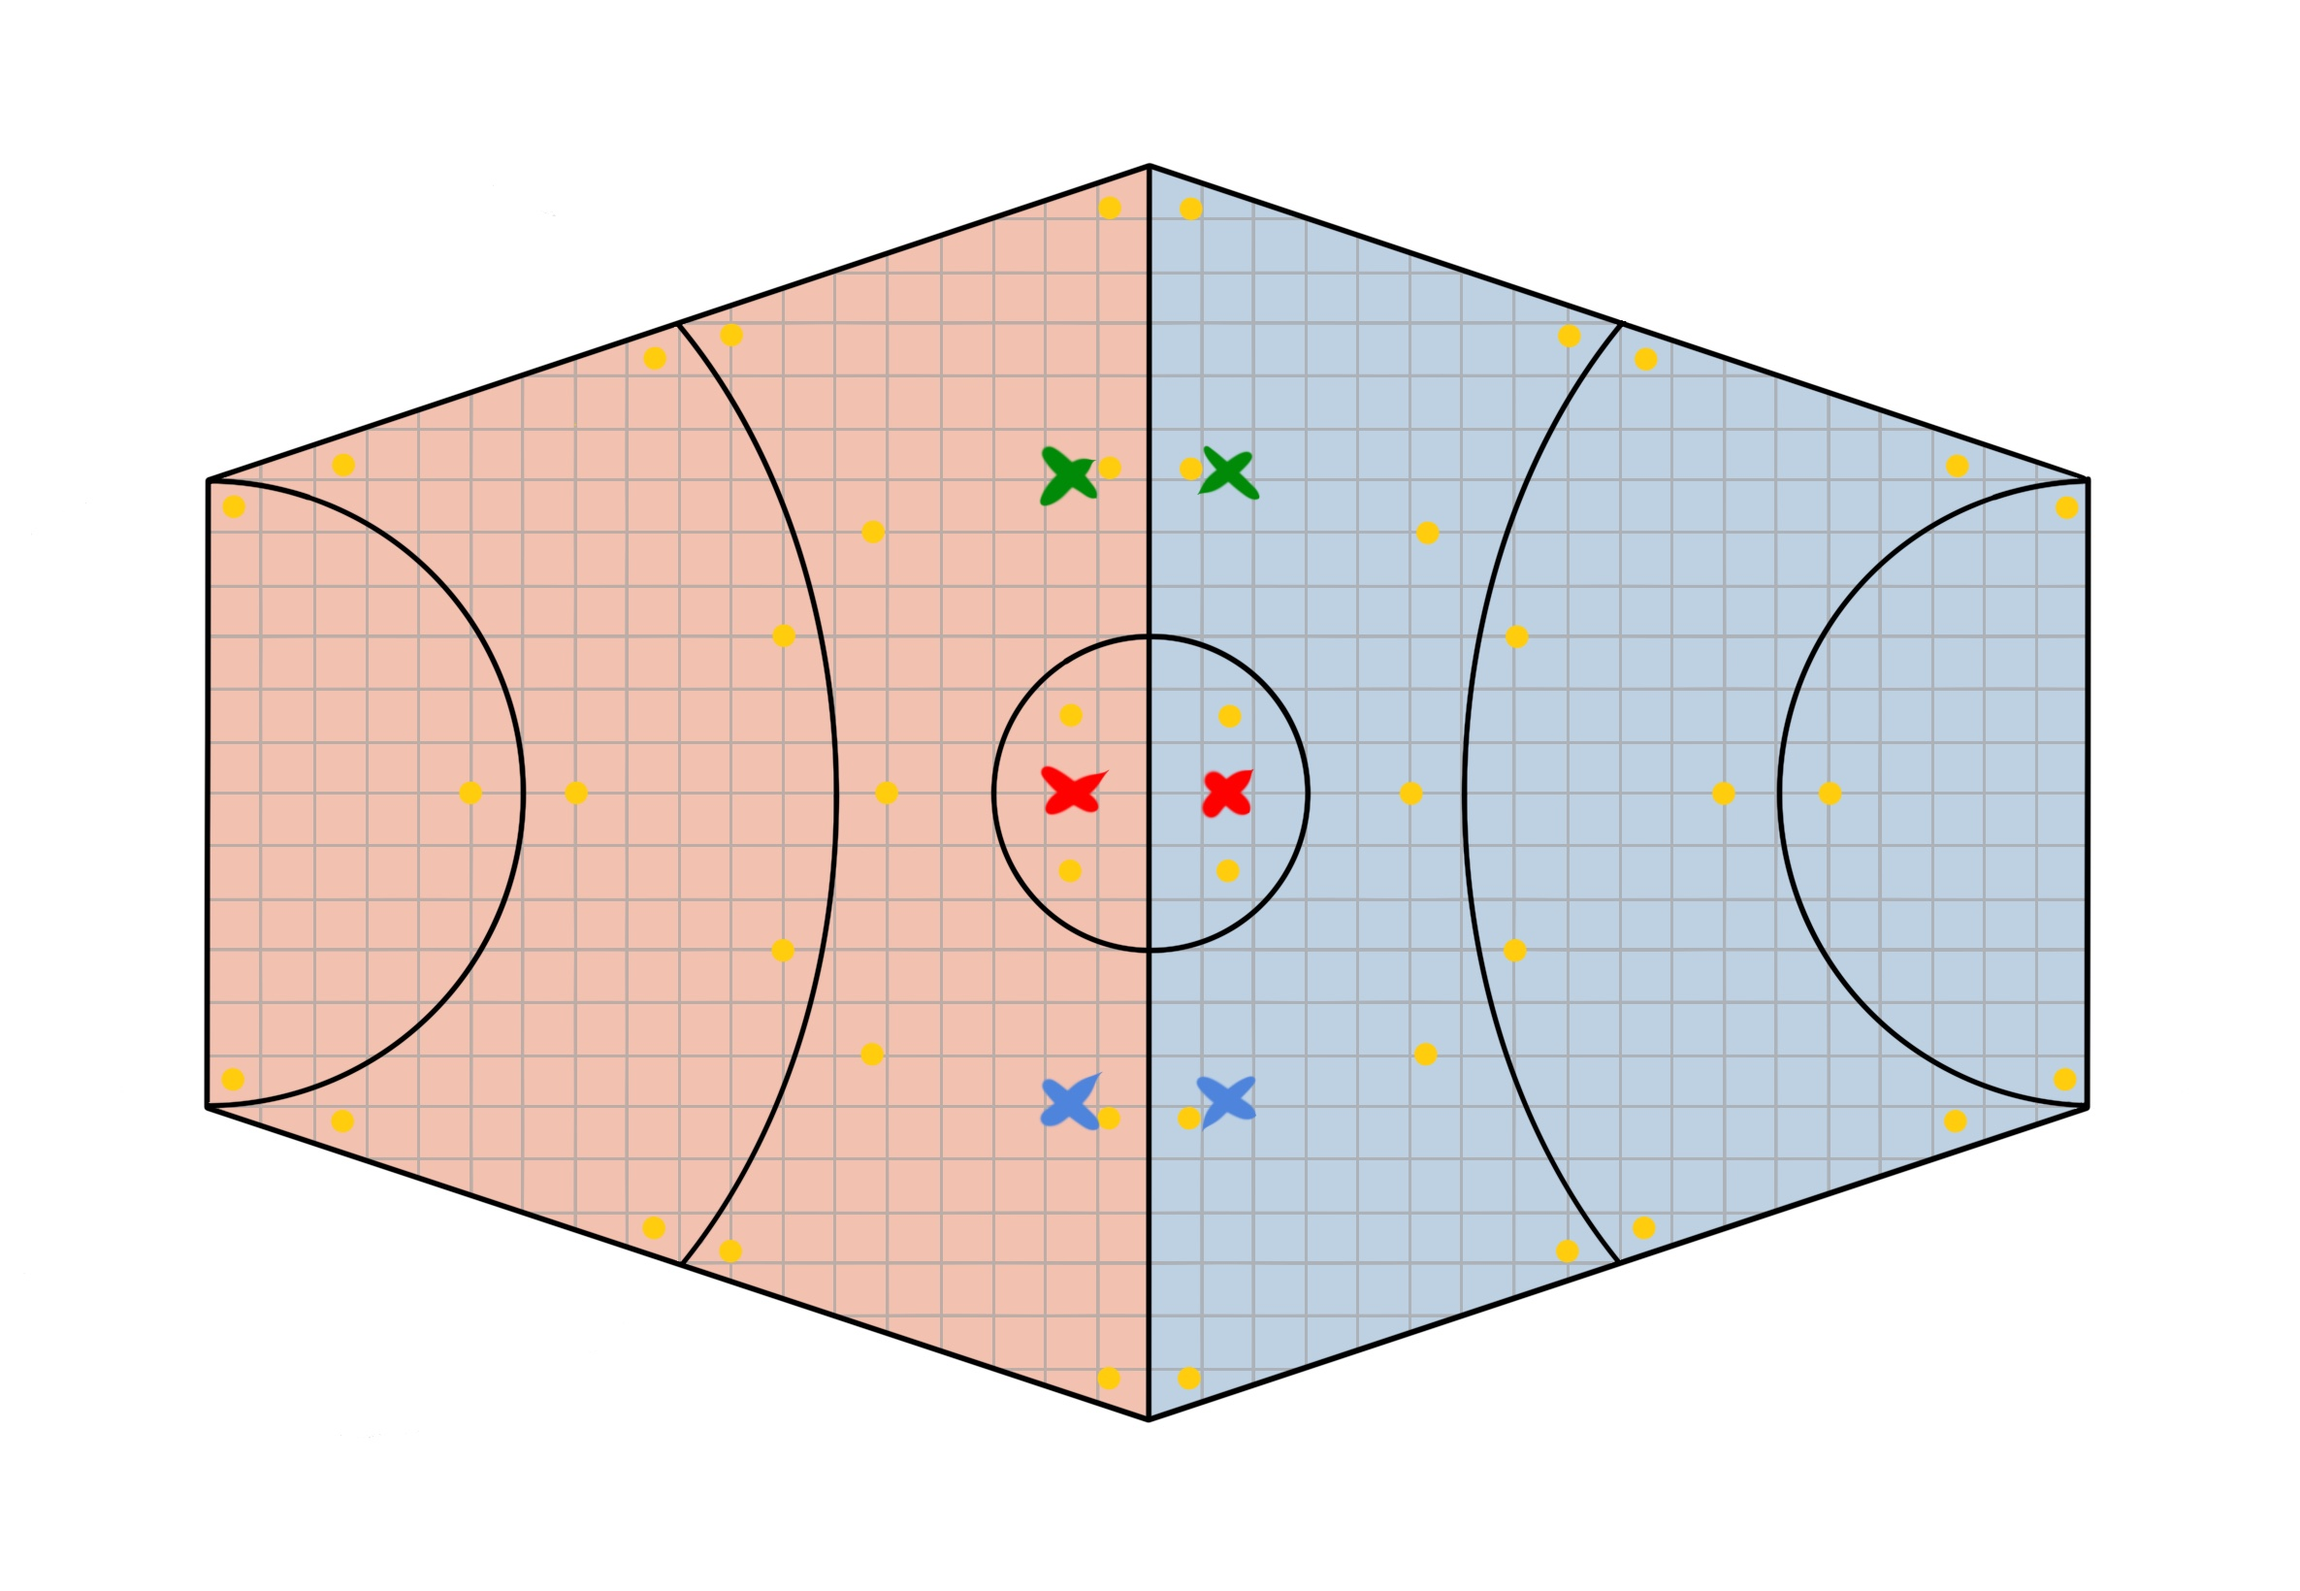
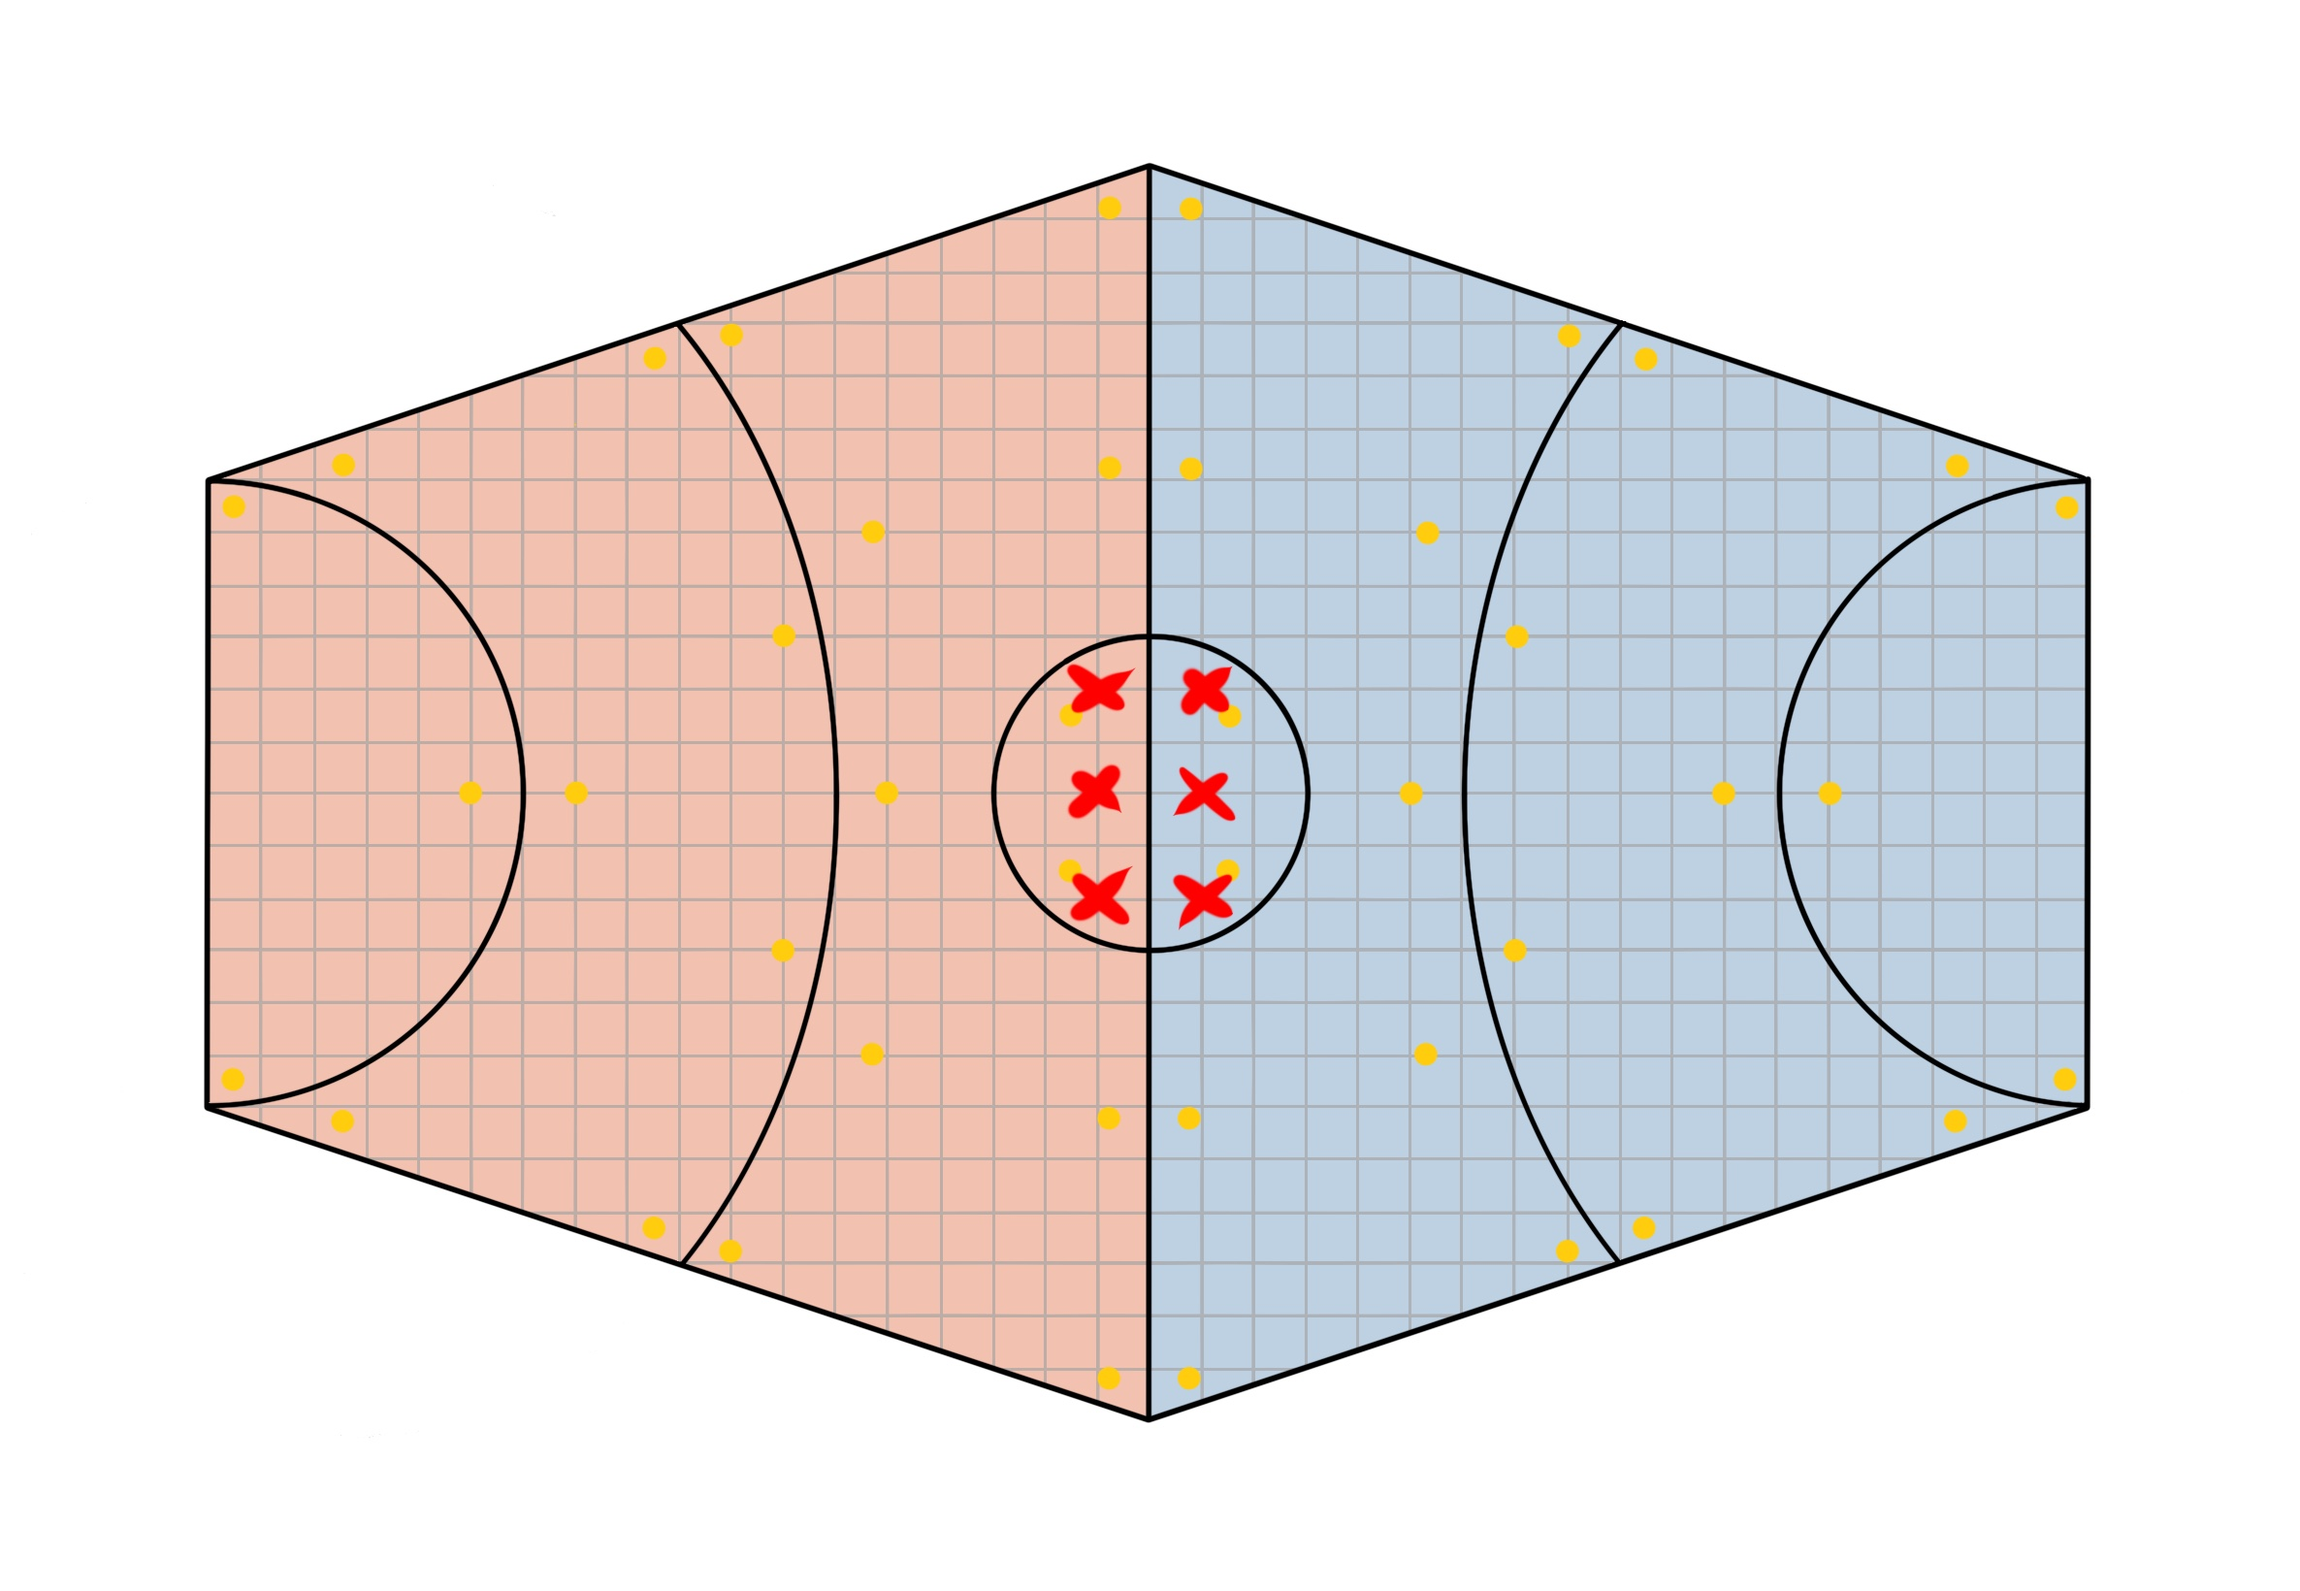
update pro bending starting positions

Changed region(s): [[0.4369, 0.4043, 0.5618, 0.5909], [0.4369, 0.6841, 0.5618, 0.7152], [0.4369, 0.2799, 0.5618, 0.311]]

diff --git a/pro-bending.md b/pro-bending.md
@@ -13,13 +13,13 @@ The rules of pro bending are pretty simple: take control over the area in a spec
 
 ## Rules
 
-The ring is divided into two halves, each of which is further divided into three zones. A central circle is used only for tie-breakers. Each zone is 30 feet wide. Teams begin the match facing each other in the two zones closest to the center (starting positions are marked with an X in the corresponding element's color). The goal is to knock the other team back and off the platform. ([Link to map with 5-foot grid](assets/Bending_Arena_grid.jpg).)
+The ring is divided into two halves, each of which is further divided into three zones. A central circle is used only for tie-breakers. Each zone is 30 feet wide. Teams begin the match facing each other in the two zones closest to the center (starting positions are marked with red X's; the teams each choose the order of their members). The goal is to knock the other team back and off the platform. ([Link to map with 5-foot grid](assets/Bending_Arena_grid.jpg).)
 
 The ring is lined with trenches of water between the zones and around the ring, which provide enough material for waterbenders. Additionally, it is dotted with earthen disks (in yellow) for the earthbenders.
 
 ### Game Structure
 
-Each set of the game consists of 3 rounds of combat. There are 9 rounds total (3 sets of 3).
+Each set (referred to as a "round") of the game consists of 3 rounds of combat. There are 9 rounds total (3 sets of 3).
 - Players take their places in the starting positions. The match proceeds in initiative order.
 - When the time expires, whichever team has advanced into the opposite side of the ring wins the set.
 - If a round is tied, the tie is resolved by a 1-on-1 face-off. A coin toss is performed, and the team that wins the coin toss chooses an element for the 1-on-1, which takes place entirely in the central circle of the ring. 
